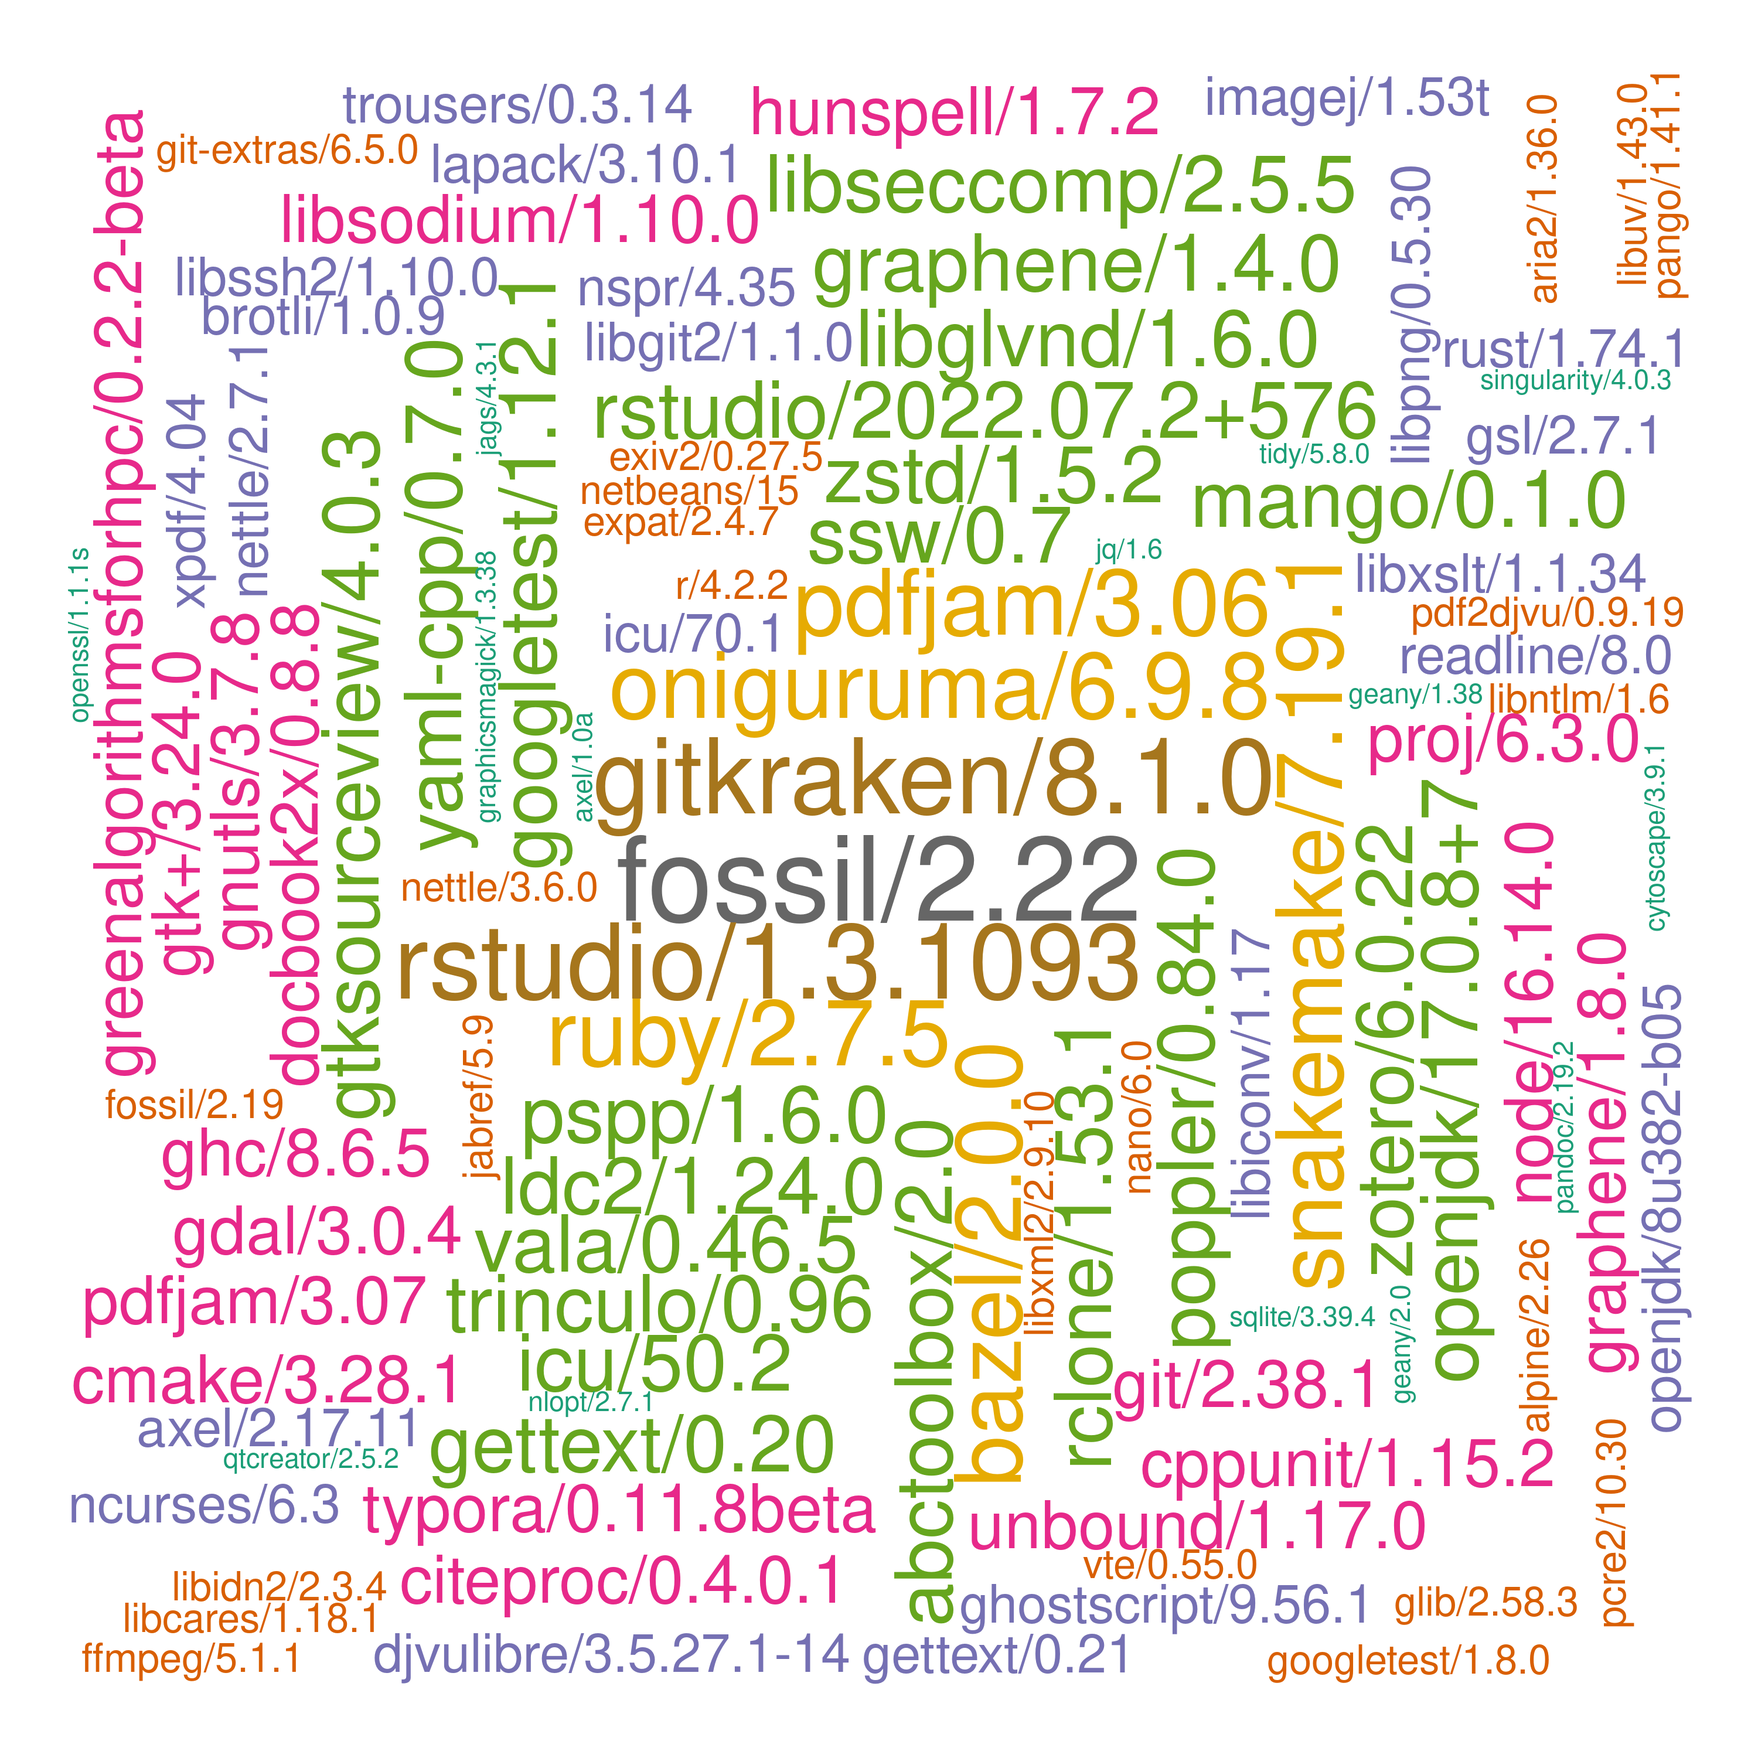
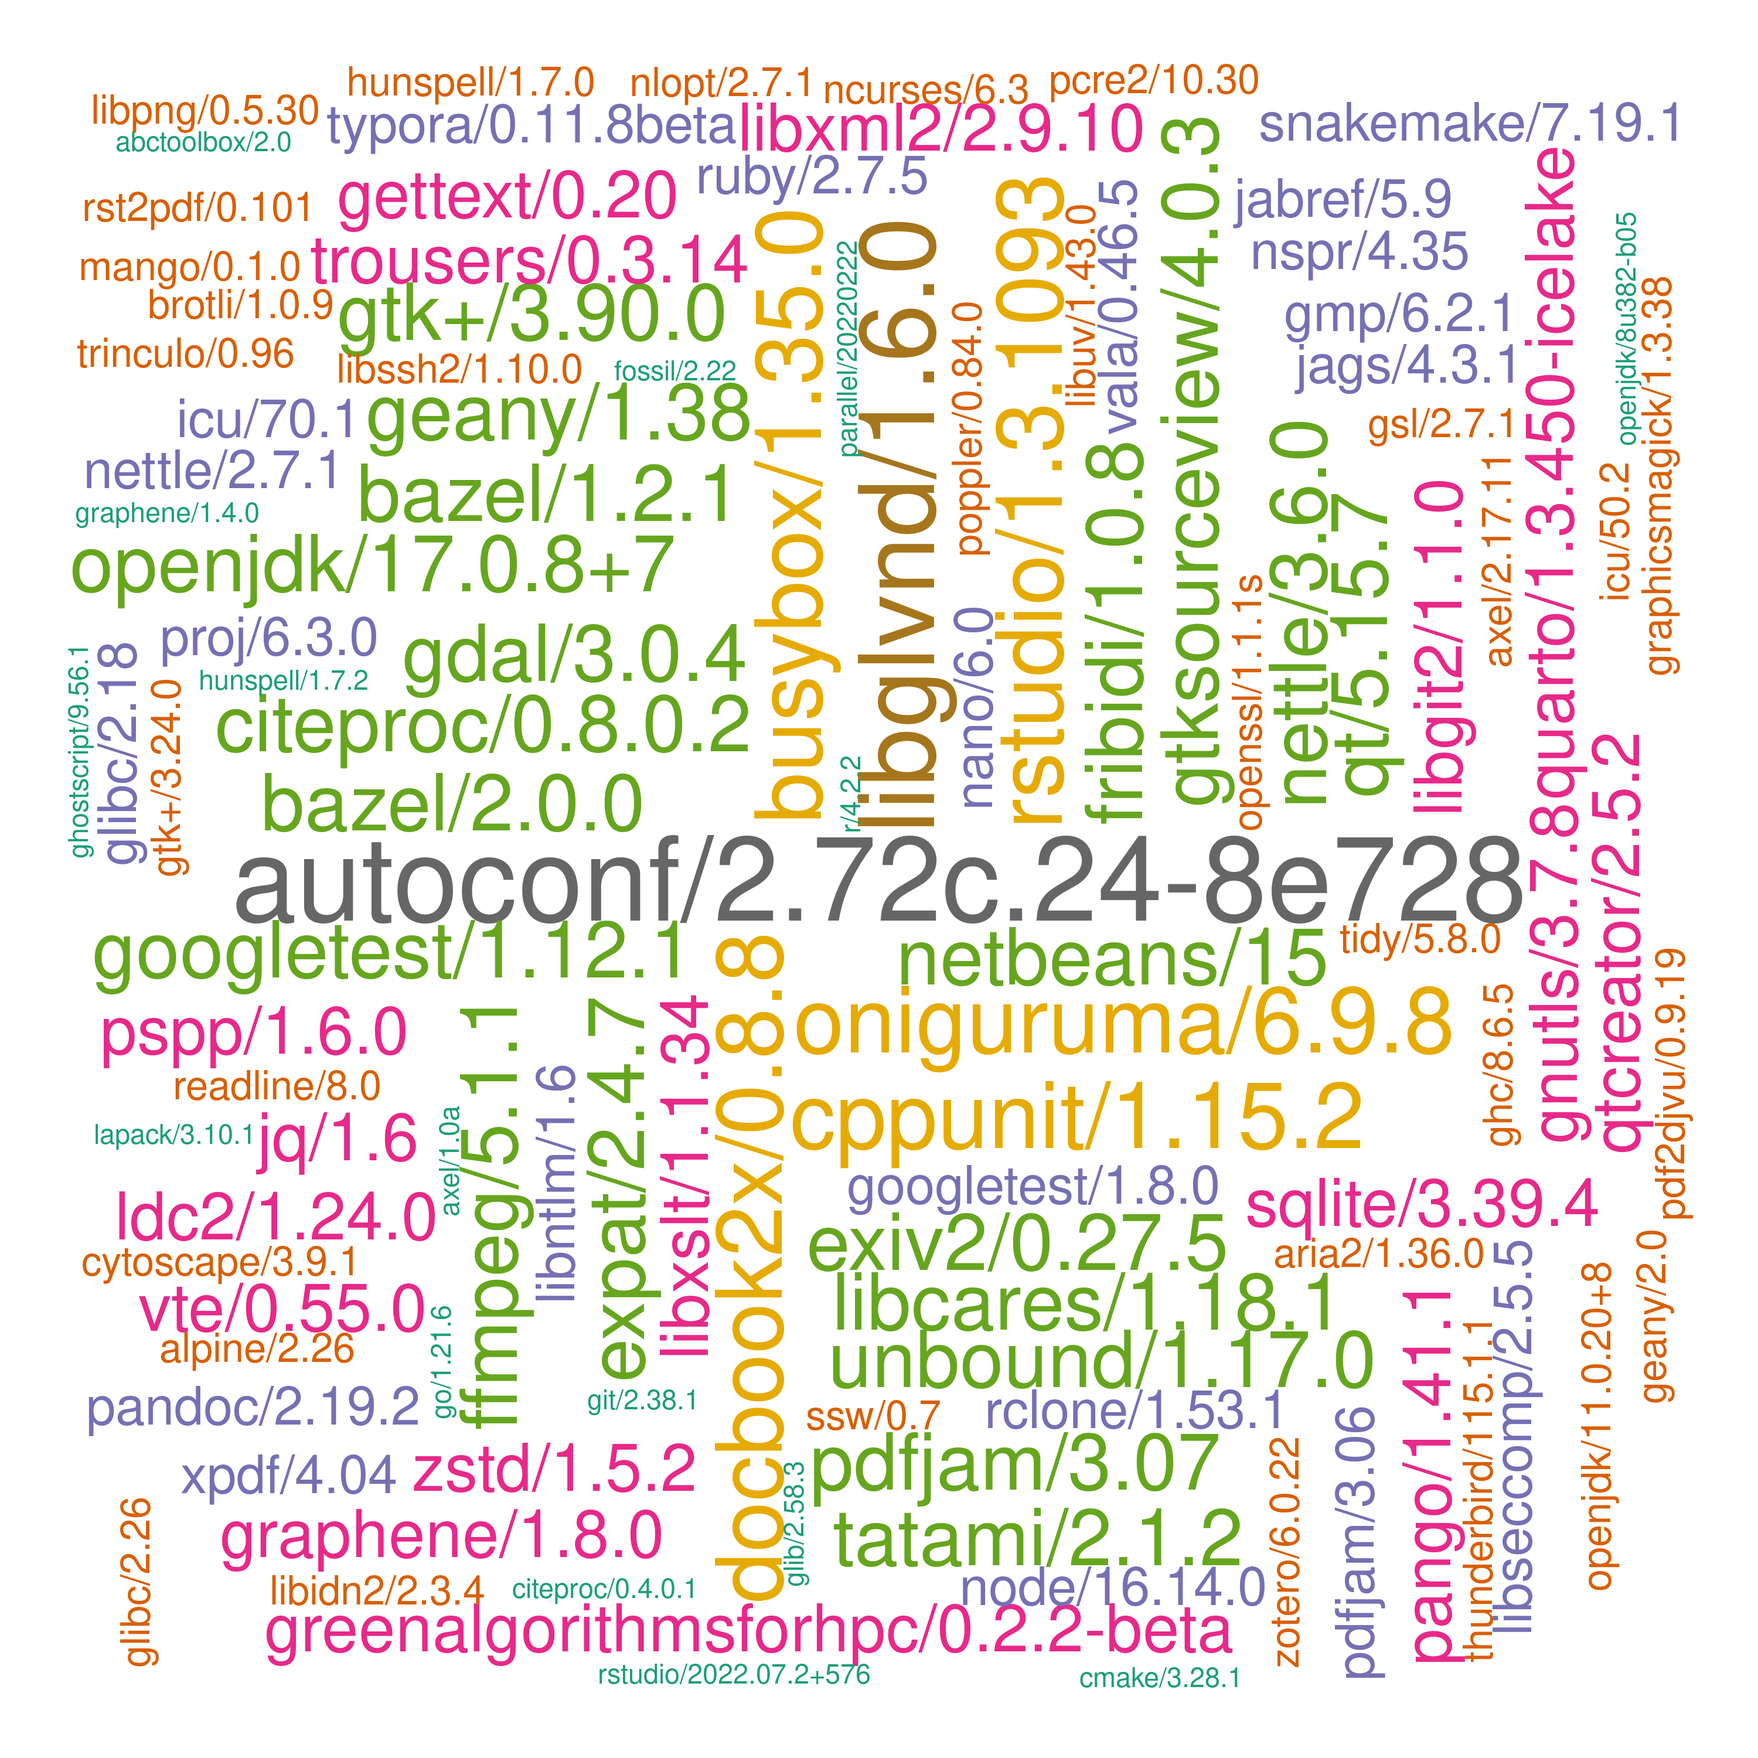
./

Changed region(s): [[0.031, 0.031, 0.961, 0.961]]

diff --git a/systems/ceuadmin.md b/systems/ceuadmin.md
@@ -8,7 +8,7 @@ The CEU software repository is here, **/usr/local/Cluster-Apps/ceuadmin/**.
 
 ![ceuadmin](ceuadmin.png)
 
-noting that the importance of software is purely random according to $$Poisson(N,\lambda)$$ where $$N=205$$, $$\lambda=3$$.
+noting that the importance of software is purely random according to $$Poisson(N,\lambda)$$ where $$N=206$$, $$\lambda=3$$.
 
 ## Entries
 
@@ -31,42 +31,42 @@ The current list is as follows,
  [53] "gdc"                   "geany"                 "GEM"                   "GEMMA"
  [57] "Genotype-Harmonizer"   "gettext"               "gh"                    "ghc"
  [61] "ghostscript"           "git"                   "git-extras"            "GitKraken"
- [65] "glib"                  "globusconnectpersonal" "gmp"                   "gnutls"
- [69] "go"                    "googletest"            "graphene"              "GraphicsMagick"
- [73] "GreenAlgorithms4HPC"   "gsl"                   "gtk+"                  "gtksourceview"
- [77] "gtool"                 "hpg"                   "htslib"                "hunspell"
- [81] "icu"                   "ImageJ"                "impute"                "JabRef"
- [85] "JAGS"                  "jq"                    "KentUtils"             "KING"
- [89] "lapack"                "ldc2"                  "ldsc"                  "LDstore"
- [93] "LEMMA"                 "libcares"              "libgit2"               "libglvnd"
- [97] "libiconv"              "libidn2"               "libntlm"               "libpng"
-[101] "libseccomp"            "libsodium"             "libssh2"               "libuv"
-[105] "libxml2"               "libxslt"               "locuszoom"             "MAGENTA"
-[109] "magma"                 "Mango"                 "Mega2"                 "metal"
-[113] "MONSTER"               "MORGAN"                "MR-MEGA"               "MsCAVIAR"
-[117] "nano"                  "ncbi-vdb"              "ncurses"               "netbeans"
-[121] "nettle"                "nextflow"              "NLopt"                 "node"
-[125] "nspr"                  "oniguruma"             "openjdk"               "OpenMS"
-[129] "openssl"               "osca"                  "PAINTOR"               "pandoc"
-[133] "pandoc-citeproc"       "pango"                 "parallel"              "Pascal"
-[137] "pcre2"                 "pdf2djvu"              "pdfjam"                "pgsc_calc"
-[141] "phenoscanner"          "PhySO"                 "picard"                "plink"
-[145] "plink-bgi"             "plinkseq"              "PoGo"                  "polyphen"
-[149] "poppler"               "proj"                  "PRSice"                "pspp"
-[153] "PWCoCo"                "qctool"                "qpdf"                  "qt"
-[157] "qtcreator"             "QTLtools"              "quarto"                "quicktest"
-[161] "R"                     "raremetal"             "rclone"                "readline"
-[165] "regenie"               "regtools"              "RHHsoftware"           "rst2pdf"
-[169] "rstudio"               "ruby"                  "rust"                  "samtools"
-[173] "shapeit"               "singularity"           "SMR"                   "snakemake"
-[177] "SNP2HLA"               "snptest"               "spread-sheet-widget"   "sqlite"
-[181] "sra-tools"             "ssw"                   "STAR"                  "stata"
-[185] "SurvivalAnalysis"      "SurvivalKit"           "tabix"                 "tatami"
-[189] "thunderbird"           "tidy"                  "trinculo"              "trousers"
-[193] "Typora"                "unbound"               "vala"                  "VarScan"
-[197] "vcftools"              "VEGAS2"                "verifyBamID"           "VSCode"
-[201] "vte"                   "xpdf"                  "yaml-cpp"              "Zotero"
-[205] "zstd"
+ [65] "glib"                  "glibc"                 "globusconnectpersonal" "gmp"
+ [69] "gnutls"                "go"                    "googletest"            "graphene"
+ [73] "GraphicsMagick"        "GreenAlgorithms4HPC"   "gsl"                   "gtk+"
+ [77] "gtksourceview"         "gtool"                 "hpg"                   "htslib"
+ [81] "hunspell"              "icu"                   "ImageJ"                "impute"
+ [85] "JabRef"                "JAGS"                  "jq"                    "KentUtils"
+ [89] "KING"                  "lapack"                "ldc2"                  "ldsc"
+ [93] "LDstore"               "LEMMA"                 "libcares"              "libgit2"
+ [97] "libglvnd"              "libiconv"              "libidn2"               "libntlm"
+[101] "libpng"                "libseccomp"            "libsodium"             "libssh2"
+[105] "libuv"                 "libxml2"               "libxslt"               "locuszoom"
+[109] "MAGENTA"               "magma"                 "Mango"                 "Mega2"
+[113] "metal"                 "MONSTER"               "MORGAN"                "MR-MEGA"
+[117] "MsCAVIAR"              "nano"                  "ncbi-vdb"              "ncurses"
+[121] "netbeans"              "nettle"                "nextflow"              "NLopt"
+[125] "node"                  "nspr"                  "oniguruma"             "openjdk"
+[129] "OpenMS"                "openssl"               "osca"                  "PAINTOR"
+[133] "pandoc"                "pandoc-citeproc"       "pango"                 "parallel"
+[137] "Pascal"                "pcre2"                 "pdf2djvu"              "pdfjam"
+[141] "pgsc_calc"             "phenoscanner"          "PhySO"                 "picard"
+[145] "plink"                 "plink-bgi"             "plinkseq"              "PoGo"
+[149] "polyphen"              "poppler"               "proj"                  "PRSice"
+[153] "pspp"                  "PWCoCo"                "qctool"                "qpdf"
+[157] "qt"                    "qtcreator"             "QTLtools"              "quarto"
+[161] "quicktest"             "R"                     "raremetal"             "rclone"
+[165] "readline"              "regenie"               "regtools"              "RHHsoftware"
+[169] "rst2pdf"               "rstudio"               "ruby"                  "rust"
+[173] "samtools"              "shapeit"               "singularity"           "SMR"
+[177] "snakemake"             "SNP2HLA"               "snptest"               "spread-sheet-widget"
+[181] "sqlite"                "sra-tools"             "ssw"                   "STAR"
+[185] "stata"                 "SurvivalAnalysis"      "SurvivalKit"           "tabix"
+[189] "tatami"                "thunderbird"           "tidy"                  "trinculo"
+[193] "trousers"              "Typora"                "unbound"               "vala"
+[197] "VarScan"               "vcftools"              "VEGAS2"                "verifyBamID"
+[201] "VSCode"                "vte"                   "xpdf"                  "yaml-cpp"
+[205] "Zotero"                "zstd"
 ```
 
 These are wrapped up as :star::star::star: **[modules](https://modules.readthedocs.io/en/latest/index.html)** :star::star::star:.
@@ -316,7 +316,7 @@ Further information is avaiiable from **/usr/local/Cluster-Apps/ceuadmin/doc/ceu
 
     \* CEU or approved users only.
 
-    More detailed diagrams on recently added genetics (89) and generic (134) software are as follows,
+    More detailed diagrams on recently added genetics (89) and generic (136) software are as follows,
 
     ![Genetics](genetics.png) ![Generic](generic.png)
 

diff --git a/systems/files/ceuadmin.md b/systems/files/ceuadmin.md
@@ -21,42 +21,42 @@ The current list is as follows[^ls],
  [53] "gdc"                   "geany"                 "GEM"                   "GEMMA"
  [57] "Genotype-Harmonizer"   "gettext"               "gh"                    "ghc"
  [61] "ghostscript"           "git"                   "git-extras"            "GitKraken"
- [65] "glib"                  "globusconnectpersonal" "gmp"                   "gnutls"
- [69] "go"                    "googletest"            "graphene"              "GraphicsMagick"
- [73] "GreenAlgorithms4HPC"   "gsl"                   "gtk+"                  "gtksourceview"
- [77] "gtool"                 "hpg"                   "htslib"                "hunspell"
- [81] "icu"                   "ImageJ"                "impute"                "JabRef"
- [85] "JAGS"                  "jq"                    "KentUtils"             "KING"
- [89] "lapack"                "ldc2"                  "ldsc"                  "LDstore"
- [93] "LEMMA"                 "libcares"              "libgit2"               "libglvnd"
- [97] "libiconv"              "libidn2"               "libntlm"               "libpng"
-[101] "libseccomp"            "libsodium"             "libssh2"               "libuv"
-[105] "libxml2"               "libxslt"               "locuszoom"             "MAGENTA"
-[109] "magma"                 "Mango"                 "Mega2"                 "metal"
-[113] "MONSTER"               "MORGAN"                "MR-MEGA"               "MsCAVIAR"
-[117] "nano"                  "ncbi-vdb"              "ncurses"               "netbeans"
-[121] "nettle"                "nextflow"              "NLopt"                 "node"
-[125] "nspr"                  "oniguruma"             "openjdk"               "OpenMS"
-[129] "openssl"               "osca"                  "PAINTOR"               "pandoc"
-[133] "pandoc-citeproc"       "pango"                 "parallel"              "Pascal"
-[137] "pcre2"                 "pdf2djvu"              "pdfjam"                "pgsc_calc"
-[141] "phenoscanner"          "PhySO"                 "picard"                "plink"
-[145] "plink-bgi"             "plinkseq"              "PoGo"                  "polyphen"
-[149] "poppler"               "proj"                  "PRSice"                "pspp"
-[153] "PWCoCo"                "qctool"                "qpdf"                  "qt"
-[157] "qtcreator"             "QTLtools"              "quarto"                "quicktest"
-[161] "R"                     "raremetal"             "rclone"                "readline"
-[165] "regenie"               "regtools"              "RHHsoftware"           "rst2pdf"
-[169] "rstudio"               "ruby"                  "rust"                  "samtools"
-[173] "shapeit"               "singularity"           "SMR"                   "snakemake"
-[177] "SNP2HLA"               "snptest"               "spread-sheet-widget"   "sqlite"
-[181] "sra-tools"             "ssw"                   "STAR"                  "stata"
-[185] "SurvivalAnalysis"      "SurvivalKit"           "tabix"                 "tatami"
-[189] "thunderbird"           "tidy"                  "trinculo"              "trousers"
-[193] "Typora"                "unbound"               "vala"                  "VarScan"
-[197] "vcftools"              "VEGAS2"                "verifyBamID"           "VSCode"
-[201] "vte"                   "xpdf"                  "yaml-cpp"              "Zotero"
-[205] "zstd"
+ [65] "glib"                  "glibc"                 "globusconnectpersonal" "gmp"
+ [69] "gnutls"                "go"                    "googletest"            "graphene"
+ [73] "GraphicsMagick"        "GreenAlgorithms4HPC"   "gsl"                   "gtk+"
+ [77] "gtksourceview"         "gtool"                 "hpg"                   "htslib"
+ [81] "hunspell"              "icu"                   "ImageJ"                "impute"
+ [85] "JabRef"                "JAGS"                  "jq"                    "KentUtils"
+ [89] "KING"                  "lapack"                "ldc2"                  "ldsc"
+ [93] "LDstore"               "LEMMA"                 "libcares"              "libgit2"
+ [97] "libglvnd"              "libiconv"              "libidn2"               "libntlm"
+[101] "libpng"                "libseccomp"            "libsodium"             "libssh2"
+[105] "libuv"                 "libxml2"               "libxslt"               "locuszoom"
+[109] "MAGENTA"               "magma"                 "Mango"                 "Mega2"
+[113] "metal"                 "MONSTER"               "MORGAN"                "MR-MEGA"
+[117] "MsCAVIAR"              "nano"                  "ncbi-vdb"              "ncurses"
+[121] "netbeans"              "nettle"                "nextflow"              "NLopt"
+[125] "node"                  "nspr"                  "oniguruma"             "openjdk"
+[129] "OpenMS"                "openssl"               "osca"                  "PAINTOR"
+[133] "pandoc"                "pandoc-citeproc"       "pango"                 "parallel"
+[137] "Pascal"                "pcre2"                 "pdf2djvu"              "pdfjam"
+[141] "pgsc_calc"             "phenoscanner"          "PhySO"                 "picard"
+[145] "plink"                 "plink-bgi"             "plinkseq"              "PoGo"
+[149] "polyphen"              "poppler"               "proj"                  "PRSice"
+[153] "pspp"                  "PWCoCo"                "qctool"                "qpdf"
+[157] "qt"                    "qtcreator"             "QTLtools"              "quarto"
+[161] "quicktest"             "R"                     "raremetal"             "rclone"
+[165] "readline"              "regenie"               "regtools"              "RHHsoftware"
+[169] "rst2pdf"               "rstudio"               "ruby"                  "rust"
+[173] "samtools"              "shapeit"               "singularity"           "SMR"
+[177] "snakemake"             "SNP2HLA"               "snptest"               "spread-sheet-widget"
+[181] "sqlite"                "sra-tools"             "ssw"                   "STAR"
+[185] "stata"                 "SurvivalAnalysis"      "SurvivalKit"           "tabix"
+[189] "tatami"                "thunderbird"           "tidy"                  "trinculo"
+[193] "trousers"              "Typora"                "unbound"               "vala"
+[197] "VarScan"               "vcftools"              "VEGAS2"                "verifyBamID"
+[201] "VSCode"                "vte"                   "xpdf"                  "yaml-cpp"
+[205] "Zotero"                "zstd"
 ```
 
 Most should be available to all CSD3 users in the whole campus, e.g., for pspp, a brief description of a module is available with
@@ -316,6 +316,8 @@ They are ordered chronologically.
 | 2024-01-23  | libseccomp/2.5.5                 | Generic              |
 | 2024-01-24  | fraposa_pgsc/0.1.0               | Genetics[^fraposa]   |
 | 2024-01-24  | pgsc_calc/2.0.0-alpha.4          | Genetics[^pgsc_calc] |
+| 2024-01-27  | glibc/2.18                       | Generic              |
+| 2024-01-27  | glibc/2.26                       | Generic              |
 
 \* CEU or approved users only.
 

diff --git a/Python/pgsc_calc.md b/Python/pgsc_calc.md
@@ -27,7 +27,11 @@ module load ceuadmin/quarto/1.3.450-icelake
 ```
 
 The last module apparently only works on icelake[^issue]. Specific handling of individual module is documented on the ceuadmin
-section when appropriate.
+section when appropriate. However, it appears problematic with the Internet under icelake so we get around with glibc/2.18[^glibc].
+
+```bash
+module load ceuadmin/glibc/2.18
+```
 
 ## Usage
 
@@ -315,6 +319,23 @@ quarto render --help
 [^issue]:
 
     As of 27/1/2024, it works well with NXF_SINGULARITY_CACHEDIR=/rds/user/$USER/hpc-work/work but NXF_HOME must be /home/$USER/.nextflow.
+
+[^glibc]:
+
+    ```bash
+    export version=2.18
+    wget -qO- https://ftp.gnu.org/gnu/glibc/glibc-${version}.tar.gz | \
+    tar xvfz -
+    mkdir ${version}
+    mv glibc-${version}/ src
+    mv src ${version}
+    cd ${version}/src
+    module load texinfo-6.5-gcc-5.4.0-vxuomb7 binutils/2.25 texlive/2015 gcc/6
+    mkdir build && cd build
+    ../configure --prefix=${CEUADMIN}/glibc/${version}
+    ```
+
+    The usual `prepend-path` for modules somehow will purge modules, so `append-path` is used instead in definition of the module file.
 
 [^report]:
 
